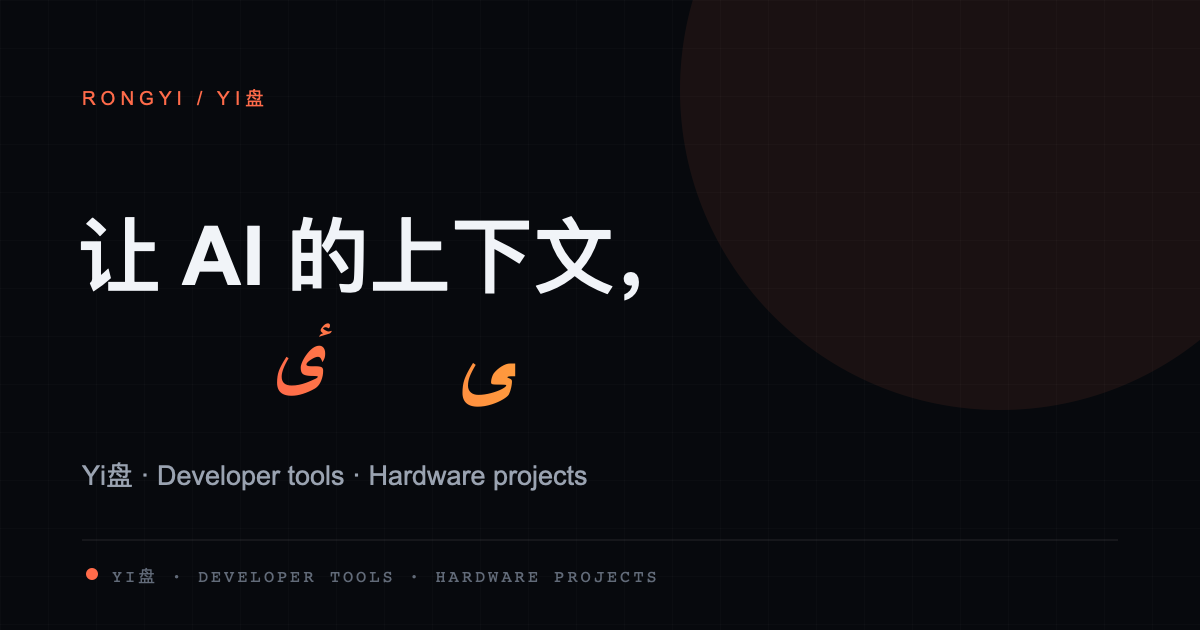
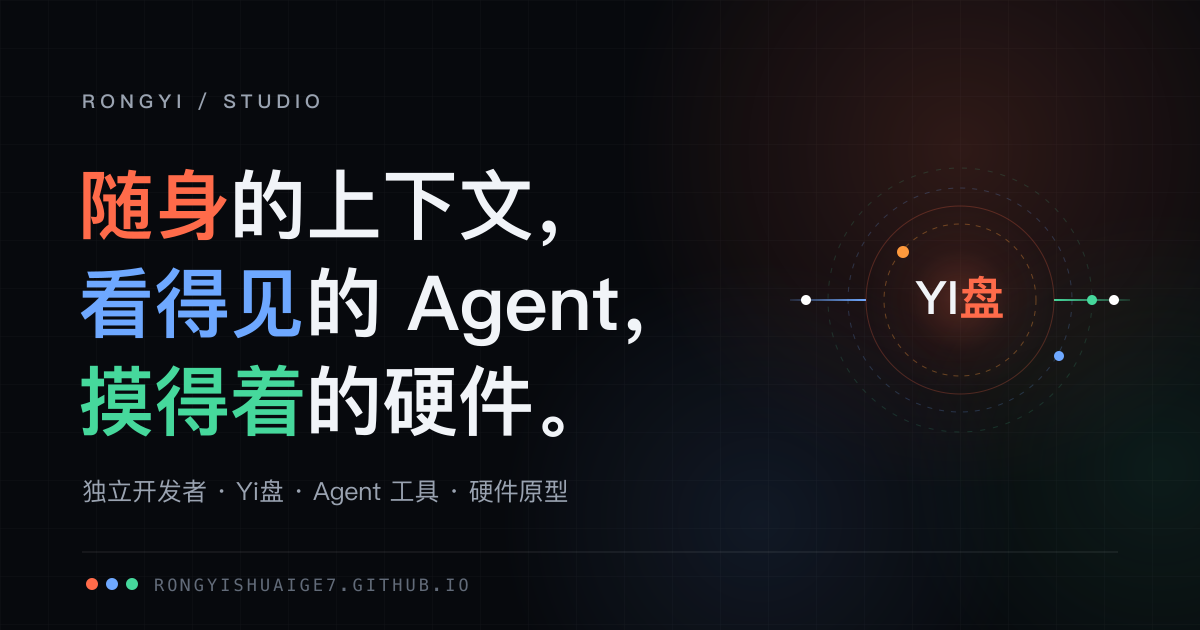
docs: refresh the social card and README for the studio layout

diff --git a/README.md b/README.md
@@ -1,6 +1,6 @@
-# Rongyi / Yi盘
+# Rongyi Studio
 
-Rongyi 的个人主页，展示 Yi盘、开发工具、硬件项目和对应的 GitHub 记录。
+Rongyi 的个人主页，按三条线展示公开项目：随身（Yi盘）、可见（Agent 工具）、可触（硬件原型），以及对应的 GitHub 与 npm 记录。
 
 - 线上地址：<https://rongyishuaige7.github.io>
 - 技术栈：Astro 静态站、原生 CSS、构建时 GitHub API
@@ -21,7 +21,10 @@ npm run dev
 ## 内容范围
 
 - Yi盘当前处于受控内测，正在完成上市前验证；CI 不代表三个系统都已完成真机测试。
-- Yi盘真实截图将在获得真实产品素材后补充；当前页面使用明确标注的功能示意图。
+- Yi盘真实截图将在获得真实产品素材后补充；当前页面使用明确标注的功能示意图。首屏工作室图同样是示意图，不代表真实数据。
+- DSH Usage 截图取自 dsh-stats 仓库的真实运行界面（夹具数据，项目名为占位），存放在 `src/assets/dsh/`。
+- 硬件磁贴来自 Hardware Lab 的 `projects.yml`，只保留公开仓库；构建证据以索引记录的提交为准。
+- 只展示公开仓库。私有项目不出现在页面上。
 - GitHub 状态带构建时间。CI 证据绑定当前默认分支 HEAD：HEAD 未变且其运行通过时持续有效并显示运行日期，HEAD 前进而未验证时降级为“最新提交尚未验证”。API 失败、运行失败或 Artifact 过期时发布明确的非绿色状态；只有状态结构本身不可信时才阻断部署，不静默回退到静态 `CI passing`。
 - 定时部署会在构建产物中刷新状态，但不会回写 `main`；因此仓库中跟踪的 JSON 可能旧于线上页面显示的构建时间。
 
